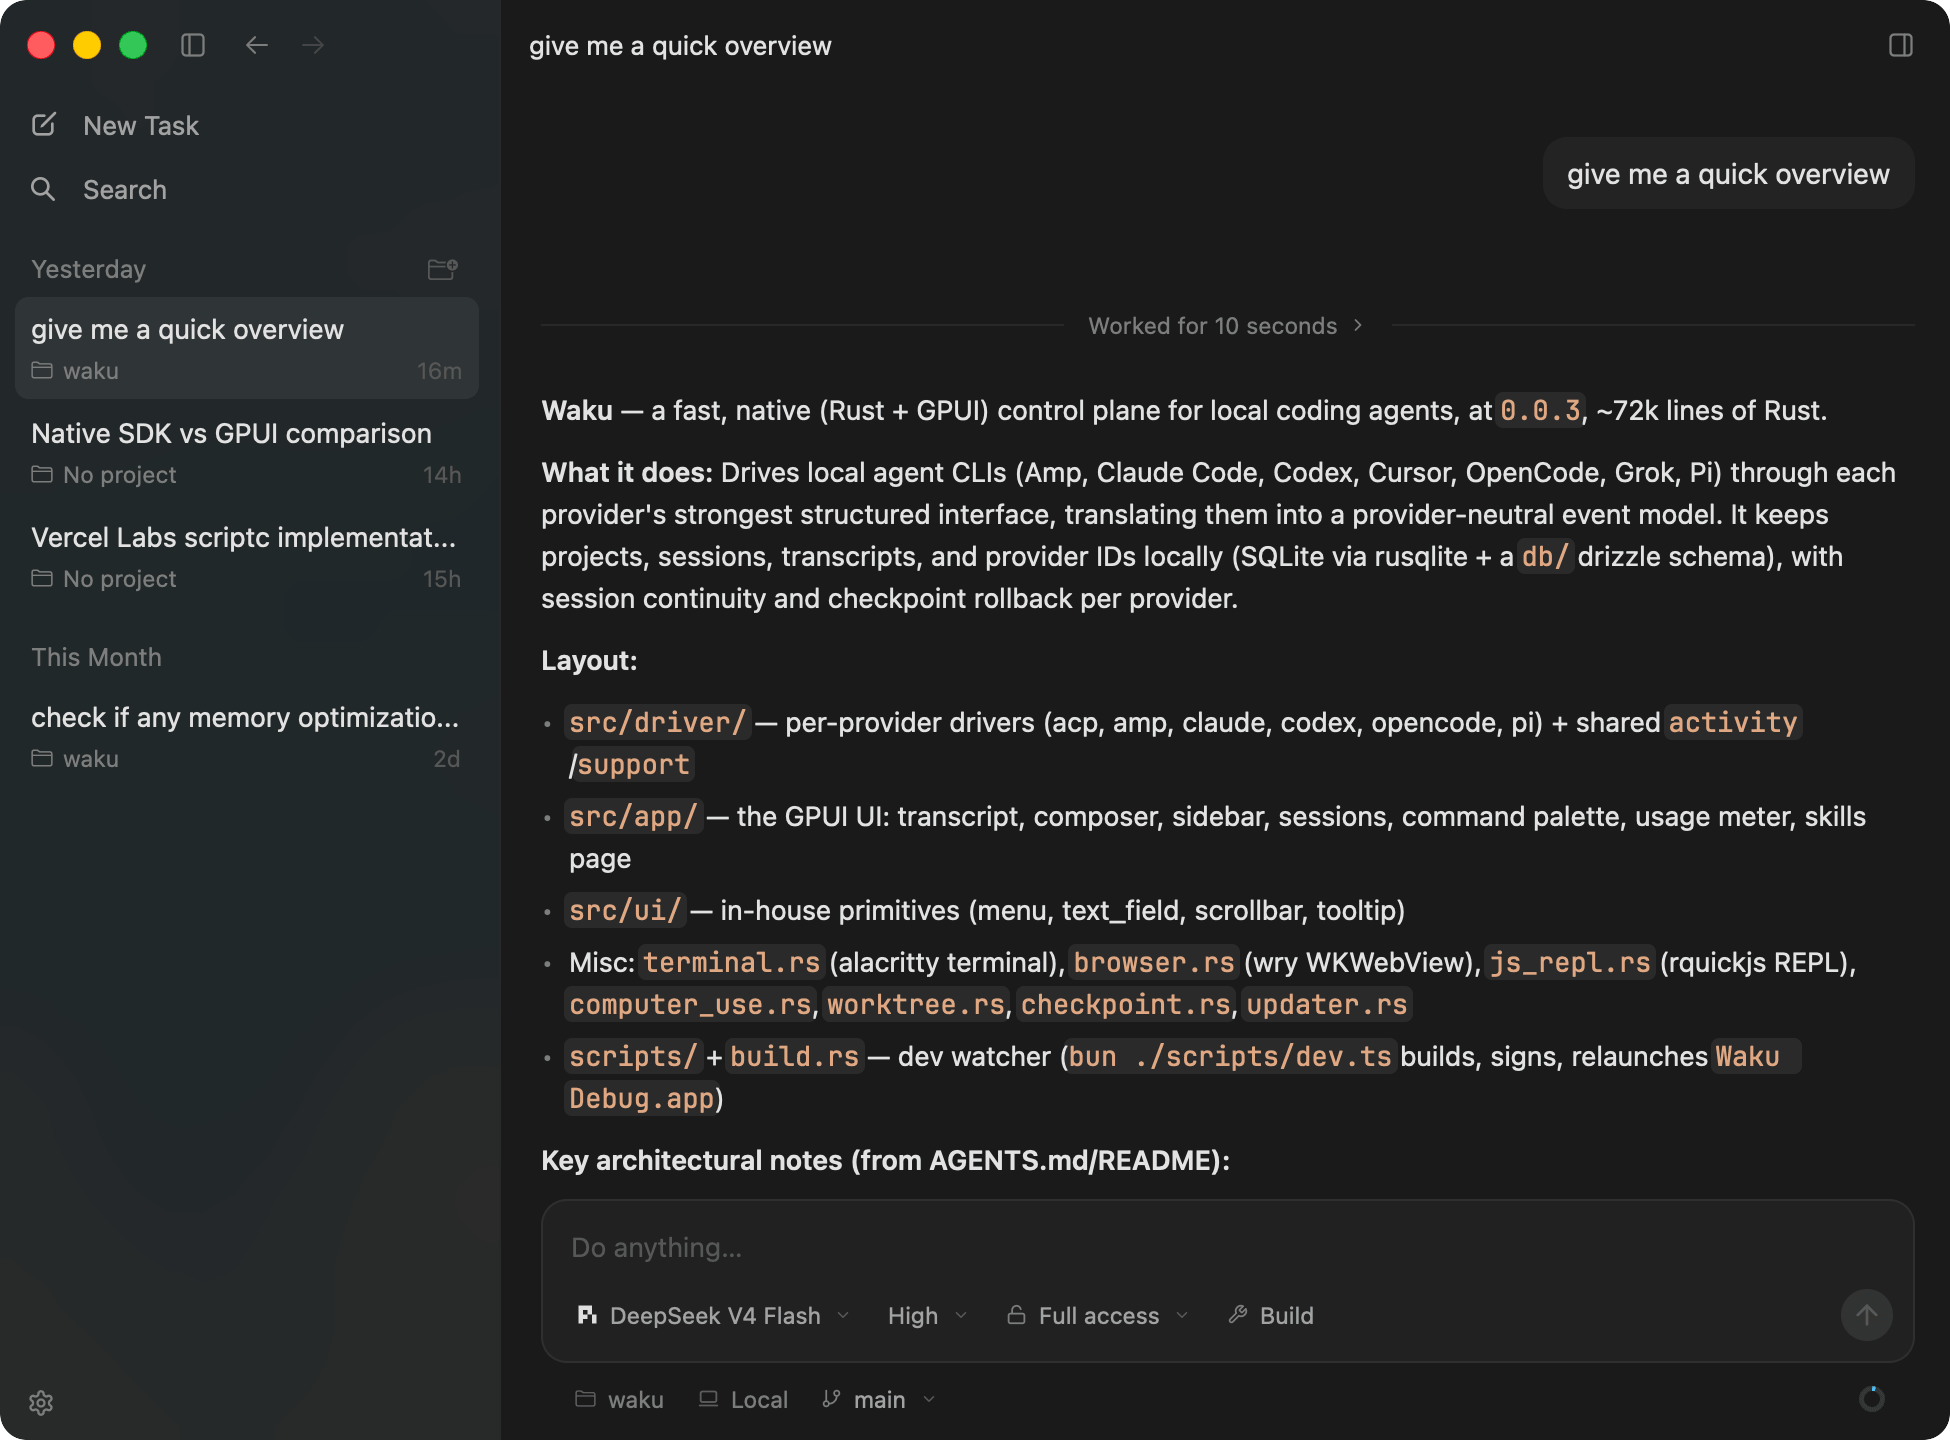
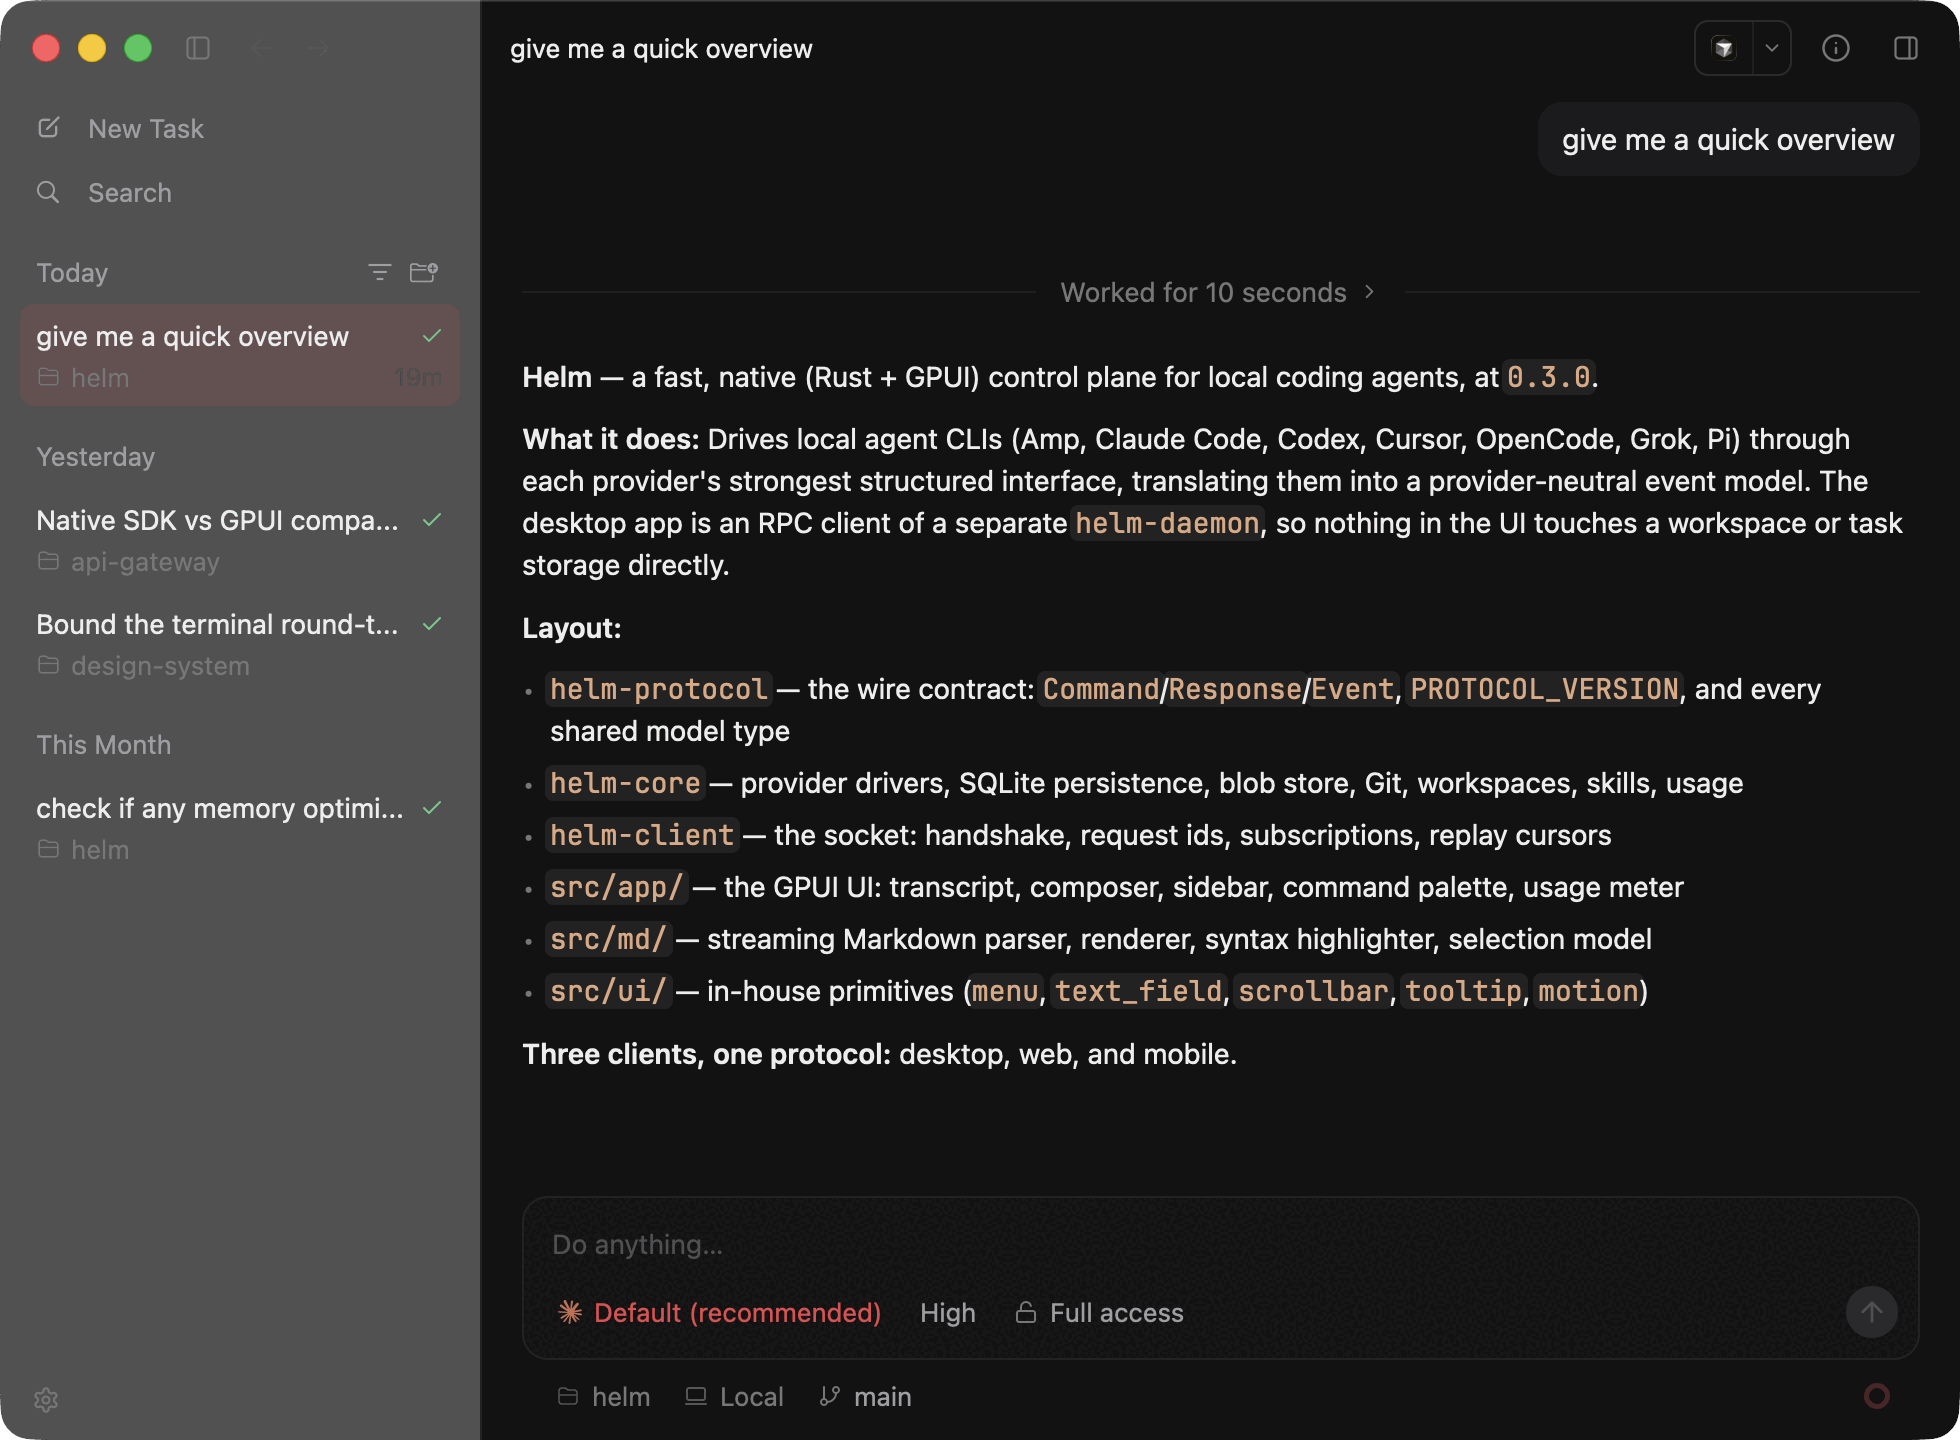
Reshoot the landing page hero and close the header seam
The hero screenshots still showed the pre-rebrand app: "Waku" in the
transcript body, three `waku` project labels, and `Waku Debug.app`. Both
variants are recaptured from the current build against a staged session
that describes Helm itself.

The hero section started below the sticky 64px header, so its glow could
never reach that band and the header read as a flat black bar with a hard
seam under it. Pulling the section up by the header height and re-adding
the same space inside leaves every element where it was and lets the wash
run behind the bar.

diff --git a/website/src/routes/index.tsx b/website/src/routes/index.tsx
@@ -202,7 +202,7 @@ function Home() {
       <main>
         {/* Hero. Centred so the composition fills the width, with the product
             shot pulled up tight beneath it rather than floating in dead space. */}
-        <section className="hero-glow relative isolate overflow-hidden">
+        <section className="hero-glow relative isolate -mt-16 overflow-hidden pt-16">
           <div className="mx-auto w-full max-w-6xl px-6 pt-20 text-center md:pt-28 lg:px-8">
             <div className="rise inline-flex items-center gap-2 rounded-full border border-border/80 bg-muted/40 px-3 py-1 font-mono text-[11px] tracking-wide text-muted-foreground">
               <span className="size-1.5 rounded-full bg-brand" />
